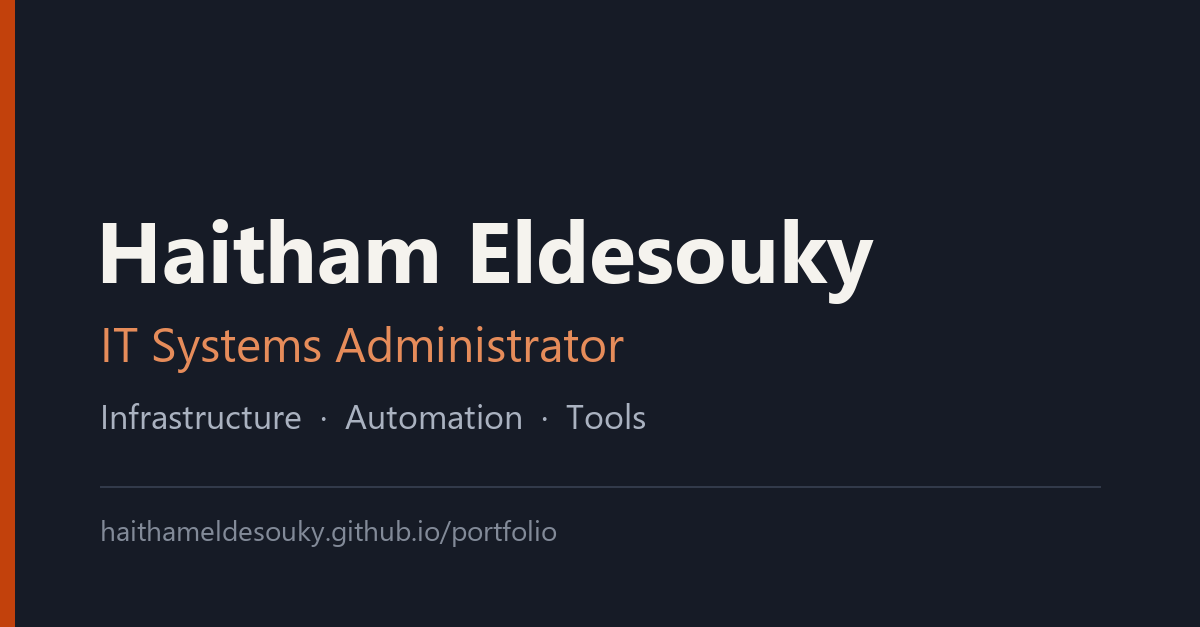
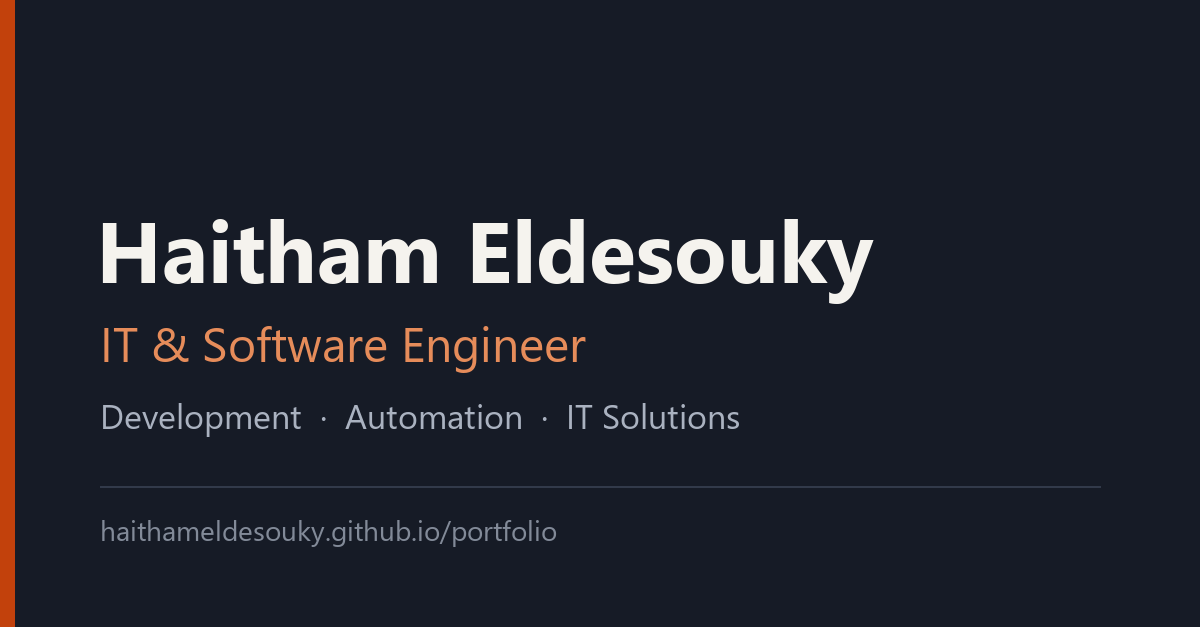
IT & Software Engineer wording, link order

Changed region(s): [[0.1233, 0.5152, 0.5242, 0.6061], [0.4625, 0.6364, 0.6167, 0.697], [0.0925, 0.6364, 0.2467, 0.697]]

diff --git a/index.html b/index.html
@@ -1,13 +1,13 @@
 <!doctype html>
 <html lang="en"><head><meta charset="utf-8"><meta name="viewport" content="width=device-width,initial-scale=1">
-<title>Haitham Eldesouky - Portfolio</title>
-<meta name="description" content="Haitham Eldesouky - IT infrastructure engineer. I also develop tools and take on different freelance requests.">
-<meta property="og:title" content="Haitham Eldesouky - Portfolio">
-<meta property="og:description" content="IT infrastructure engineer. I also develop tools and take on different freelance requests.">
+<title>Haitham Eldesouky - IT &amp; Software Engineer | Development, Automation and IT Solutions</title>
+<meta name="description" content="IT &amp; software engineer in Cairo. I build software, automate work and solve IT problems, and I take on different freelance projects.">
+<meta property="og:title" content="Haitham Eldesouky - IT &amp; Software Engineer | Development, Automation and IT Solutions">
+<meta property="og:description" content="IT &amp; software engineer in Cairo. I build software, automate work and solve IT problems, and I take on different freelance projects.">
 <meta property="og:image" content="https://haithameldesouky.github.io/portfolio/images/og-card.png">
 <meta property="og:image:width" content="1200">
 <meta property="og:image:height" content="627">
-<meta property="og:image:alt" content="Haitham Eldesouky - IT Systems Administrator">
+<meta property="og:image:alt" content="Haitham Eldesouky - IT &amp; Software Engineer">
 <meta property="og:url" content="https://haithameldesouky.github.io/portfolio/">
 <meta name="twitter:card" content="summary_large_image">
 <meta name="twitter:image" content="https://haithameldesouky.github.io/portfolio/images/og-card.png">
@@ -17,6 +17,7 @@
 *{box-sizing:border-box}body{margin:0;background:var(--bg);color:var(--ink);font:16px/1.5 system-ui,-apple-system,"Segoe UI",Roboto,sans-serif}
 header{max-width:1100px;margin:0 auto;padding:48px 16px 24px}
 h1{font-size:clamp(28px,5vw,42px);margin:0 0 8px;line-height:1.15}
+.tag{font-weight:600;color:var(--acc);margin:0 0 8px;font-size:clamp(16px,2.4vw,19px)}
 .lead{color:var(--mute);max-width:640px;margin:0 0 20px}
 .btns{display:flex;flex-wrap:wrap;gap:8px}
 .btn{display:inline-block;padding:8px 14px;border-radius:8px;background:var(--acc);color:#fff;text-decoration:none;font-weight:600;font-size:15px}
@@ -35,7 +36,8 @@ footer{max-width:1100px;margin:0 auto;padding:0 16px 40px;color:var(--mute);font
 .repo:hover{border-color:var(--acc)}.repo b{color:var(--acc);font-size:16px;overflow-wrap:anywhere}.repo span{color:var(--mute);font-size:14px}.repo small{color:var(--mute);font-size:13px;margin-top:auto}
 </style></head><body>
 <header><h1>Haitham Eldesouky</h1>
-<p class="lead">IT infrastructure engineer. I also develop tools and take on different freelance requests. A selection of my work is below.</p>
+<p class="tag">IT &amp; Software Engineer | Development, Automation and IT Solutions</p>
+<p class="lead">IT &amp; software engineer in Cairo. I build software, automate work and solve IT problems, and I take on different freelance projects. A selection of my work is below.</p>
 <div class="btns"><a class="btn alt" href="https://github.com/HaithamEldesouky">GitHub</a><a class="btn alt" href="https://www.behance.net/haithameldesou">Behance</a><a class="btn alt" href="https://www.fiverr.com/haithamashraf">Hire me on Fiverr</a><a class="btn alt" href="https://www.upwork.com/freelancers/~01741b0beadfbad916">Hire me on Upwork</a><a class="btn" href="https://eldesouky4.gumroad.com">Shop on Gumroad</a></div></header>
 <main>
 <article class="card">

diff --git a/README.md b/README.md
@@ -1,8 +1,10 @@
 # Haitham Eldesouky - Portfolio
 
-IT infrastructure engineer. I also develop tools and take on different freelance requests. A selection of my work is below.
+**IT & Software Engineer | Development, Automation and IT Solutions**
 
-Shop: [eldesouky4.gumroad.com](https://eldesouky4.gumroad.com) - Hire me: [Fiverr](https://www.fiverr.com/haithamashraf) - [Upwork](https://www.upwork.com/freelancers/~01741b0beadfbad916) - Behance: [haithameldesou](https://www.behance.net/haithameldesou) - Code: [github.com/HaithamEldesouky](https://github.com/HaithamEldesouky)
+IT & software engineer in Cairo. I build software, automate work and solve IT problems, and I take on different freelance projects. A selection of my work is below.
+
+[GitHub](https://github.com/HaithamEldesouky) - [Behance](https://www.behance.net/haithameldesou) - Hire me: [Fiverr](https://www.fiverr.com/haithamashraf) - [Upwork](https://www.upwork.com/freelancers/~01741b0beadfbad916) - Shop: [Gumroad](https://eldesouky4.gumroad.com)
 
 ## Cute Kawaii Clipart
 
